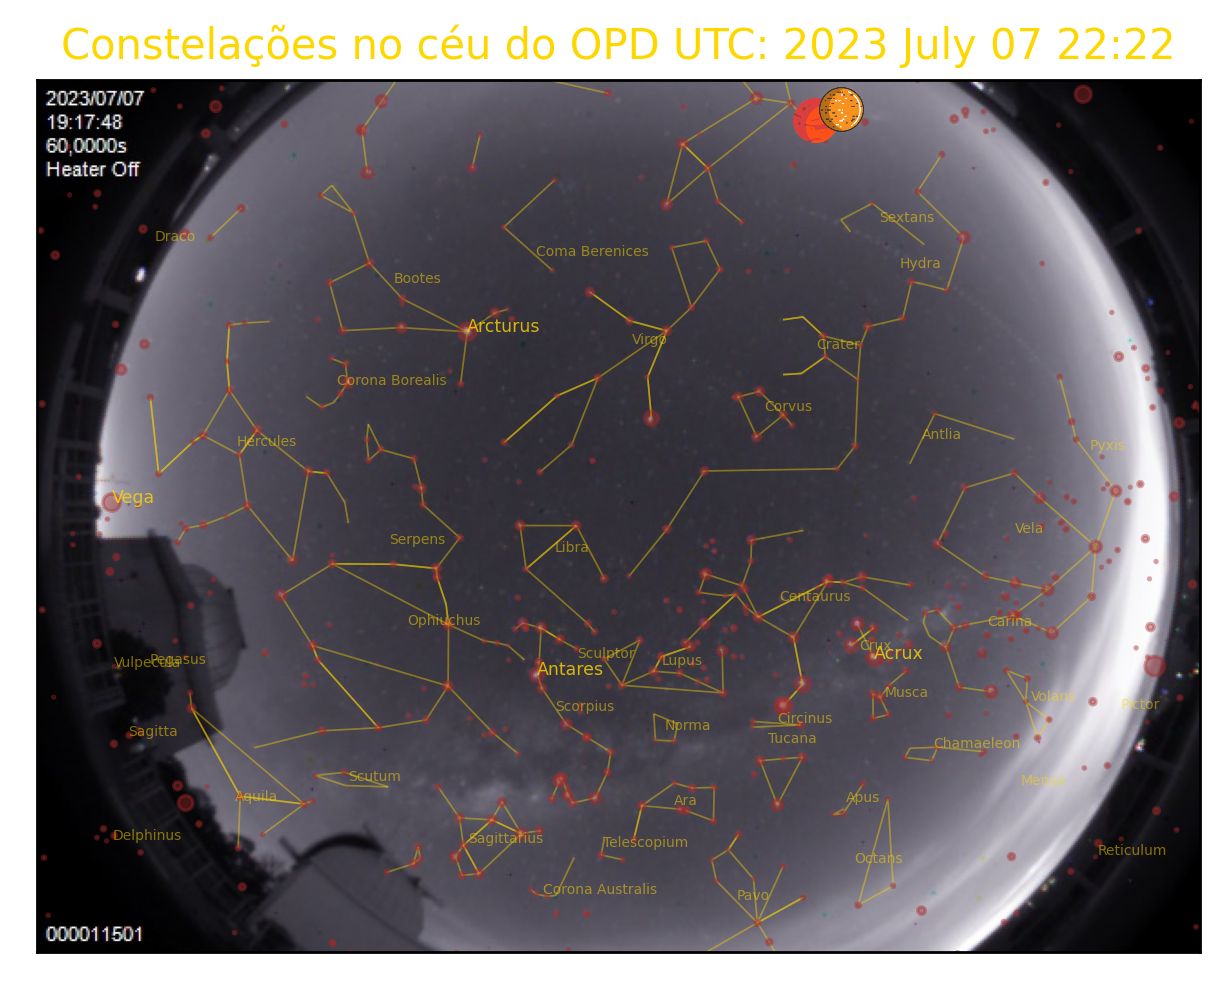
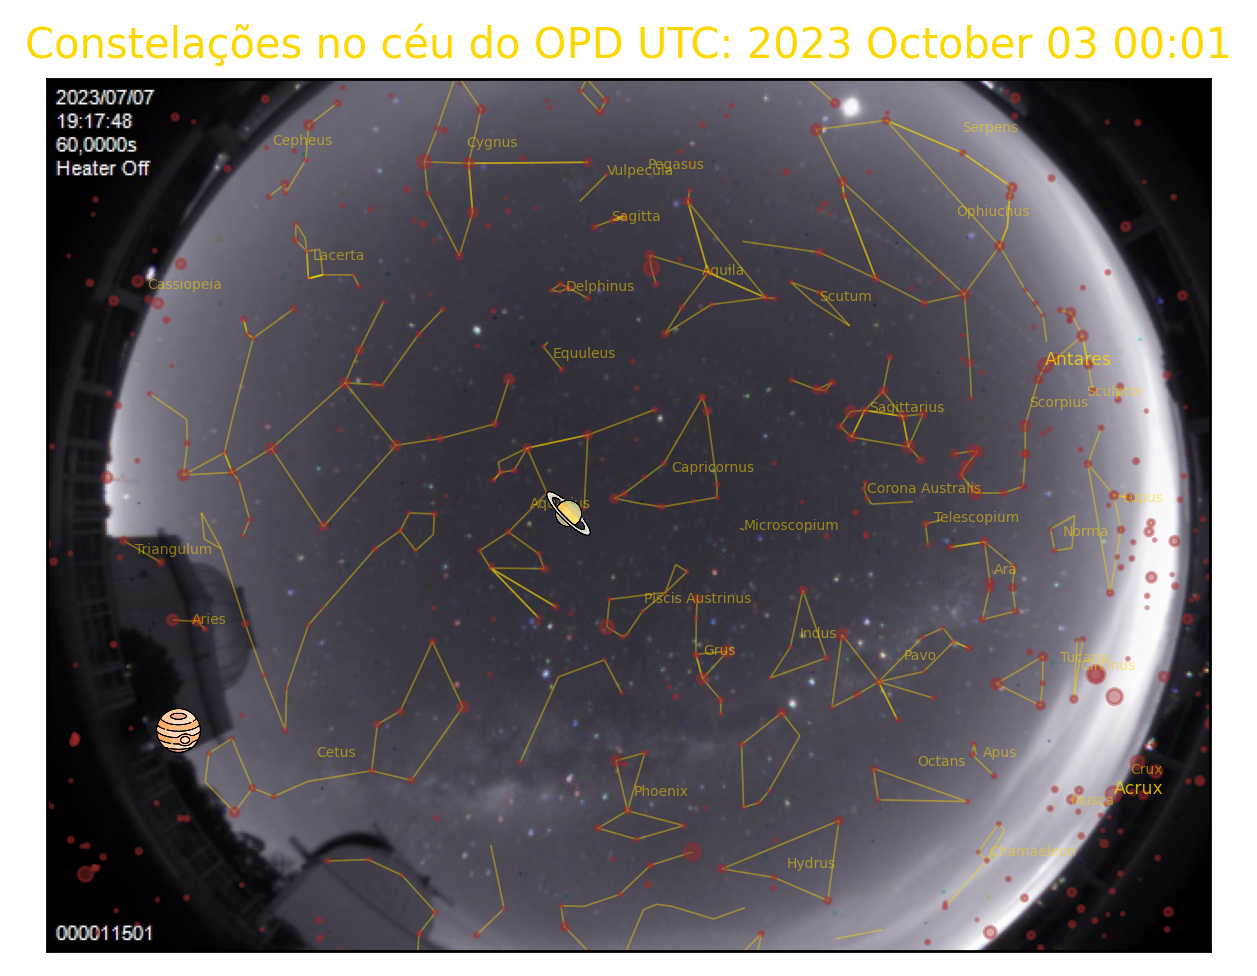
fixed allsky 340c orientation

diff --git a/skymap.py b/skymap.py
@@ -216,9 +216,9 @@ class SkyMap():
                     print("ERRO SKYMAP:", str(e))
 
 #path of original allsky image
-allsky_img = [r"images\allsky340c.jpg", r"images\allsky.jpg"]
+allsky_img = [r"C:\Users\servidorOPD\Documents\Programas\Servidor COOPD\public\img\allsky340c.jpg", r"C:\Users\servidorOPD\Documents\Programas\Servidor COOPD\public\img\allsky_picole.jpg"]
 #path of destination skymap image
-skymap_img = [r"images\skymap340c.png", r"images\allsky.png"]
+skymap_img = [r"C:\Users\servidorOPD\Documents\Programas\Servidor COOPD\public\img\allsky340c.png", r"C:\Users\servidorOPD\Documents\Programas\Servidor COOPD\public\img\allsky_picole.png"]
 angles = [-41, 133]
 
 skyMap = SkyMap()

diff --git a/utils.py b/utils.py
@@ -115,7 +115,7 @@ def pol2cart(rho, phi, allsky_angle):
     y = rho * np.sin(np.radians(phi+allsky_angle))
     if allsky_angle<0:
         x0 = 0.5
-        y0 = 12.1
+        y0 = -12.5
     else:
         x0 = 8.5
         y0 = -5
